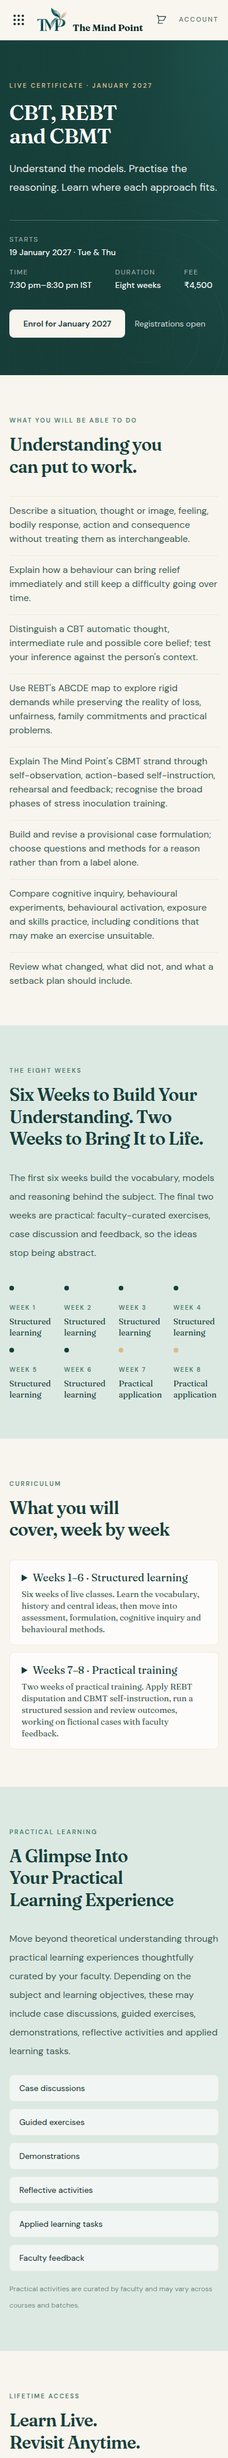
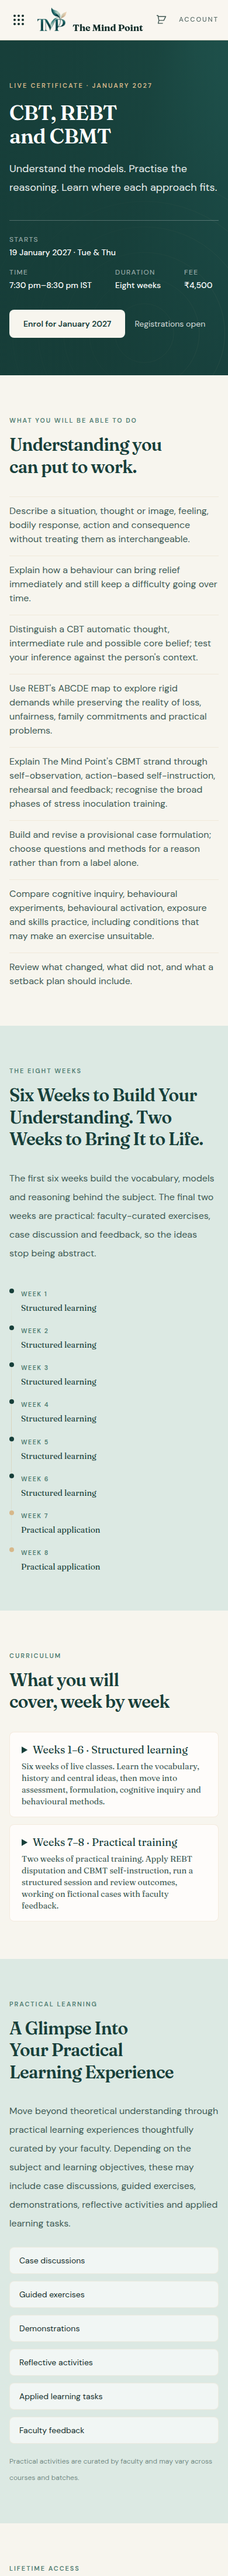
fix(cbt): valid list markup and a tablet-safe journey
The decorative hairlines move outside the ordered list, so the list contains
only items, and the eight-column row now starts at lg instead of sm — at tablet
widths the labels were crowding each other in eight 80px columns. Tablet and
mobile keep the connected vertical timeline.

Changed region(s): [[0.0, 0.0, 1.0, 0.9981], [0.8923, 0.811, 0.9538, 0.8421], [0.8923, 0.0624, 0.9231, 0.0936]]

diff --git a/components/course-page/premium-course-page.tsx b/components/course-page/premium-course-page.tsx
@@ -214,20 +214,21 @@ export function PremiumCoursePage({
           exercises, case discussion and feedback, so the ideas stop being
           abstract.
         </p>
-        <ol className="relative mt-10 grid grid-cols-1 gap-4 pl-5 sm:grid-cols-8 sm:pl-0">
+        <div className="relative mt-10">
           <span
             aria-hidden="true"
-            className="via-brand-gold/50 absolute top-[3px] right-0 left-0 hidden h-px bg-gradient-to-r from-transparent to-transparent sm:block"
+            className="via-brand-gold/50 absolute top-[3px] right-0 left-0 hidden h-px bg-gradient-to-r from-transparent to-transparent lg:block"
           />
           <span
             aria-hidden="true"
-            className="via-brand-gold/45 absolute top-1 bottom-1 left-[3px] w-px bg-gradient-to-b from-transparent to-transparent sm:hidden"
+            className="via-brand-gold/45 absolute top-1 bottom-1 left-[3px] w-px bg-gradient-to-b from-transparent to-transparent lg:hidden"
           />
+          <ol className="relative grid grid-cols-1 gap-4 pl-5 lg:grid-cols-8 lg:pl-0">
           {["1", "2", "3", "4", "5", "6", "7", "8"].map((week, index) => (
-            <li key={week} className="relative pt-0 sm:pt-6">
+            <li key={week} className="relative pt-0 lg:pt-6">
               <span
                 aria-hidden="true"
-                className={`absolute top-1 -left-5 h-2 w-2 rounded-full sm:top-0 sm:left-0 ${
+                className={`absolute top-1 -left-5 h-2 w-2 rounded-full lg:top-0 lg:left-0 ${
                   index < 6 ? "bg-brand-teal" : "bg-brand-gold"
                 }`}
               />
@@ -239,7 +240,8 @@ export function PremiumCoursePage({
               </p>
             </li>
           ))}
-        </ol>
+          </ol>
+        </div>
       </Section>
 
       {/* Curriculum accordions */}
